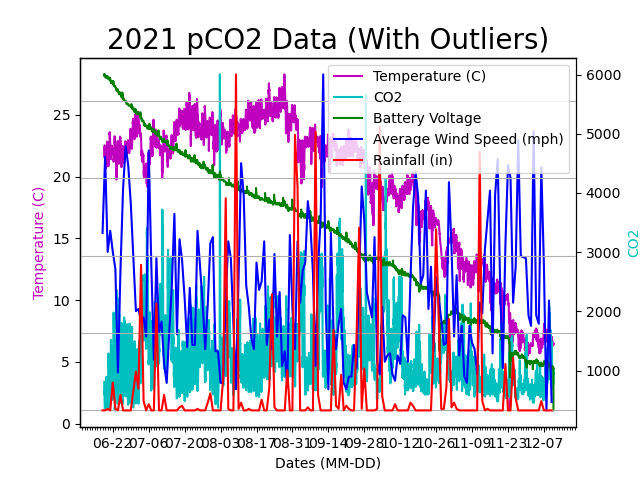
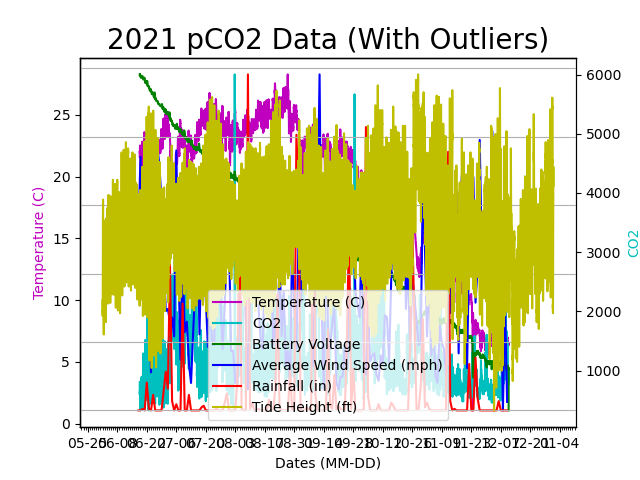
graphs tidal data (needs editing)

diff --git a/pCO2_data/Grapher.py b/pCO2_data/Grapher.py
@@ -31,6 +31,15 @@ ryData = []
 # Used in taking out empty data values from weather data
 numofLinesW = 0
 
+# Tidal Data
+# Used to hold tidal data from csv file
+tidDate = []
+tidTime = []
+tidHeightData = []
+
+# Used in taking out empty values from tidal data
+numofLinesT = 0
+
 # Outliers
 # Holds information on outliers
 outlierData = []
@@ -43,8 +52,8 @@ headersV = ["January", "February", "March", "April", "May", "June", "July", "Aug
 # Holds converted time values
 xDataTrueO =[]      # Outlier times
 xDataTrueNO = []    # No outlier times
-weaDateTrue =[]     # Weather times
-
+weaDateTrue = []    # Weather times
+tidDateTrue = []    # Tidal times
 # Takes out empty data values in pCO2 data set
 with open(os.path.join(__location__, 'completeData.csv'),'r') as csvfile:
     lines = csv.reader(csvfile, delimiter='\t')
@@ -72,7 +81,7 @@ with open(os.path.join(__location__, '2021_Barlow_Weather_Data_Formatted.csv'),'
     lines = csv.reader(csvfile, delimiter=',')
     for row in lines:
         
-        # Checks if time entry has corresponding Temperature, CO2, and Battery Voltage
+        # Checks if time entry has corresponding Wind Speed and Rainfall
         # If not, does not include data point in graph
         if not row[11] == "" and not row[15] == "" and numofLinesW > 0:
             weaDate.append(row[0])
@@ -81,6 +90,21 @@ with open(os.path.join(__location__, '2021_Barlow_Weather_Data_Formatted.csv'),'
             numofLinesW += 1
         elif numofLinesW == 0:
             numofLinesW += 1
+
+# Takes out empty values in tidal data set
+with open(os.path.join(__location__, 'Tidal_Data_Complete.csv'),'r') as csvfile:
+    lines = csv.reader(csvfile, delimiter=',')
+    for row in lines:
+        
+        # Checks if time entry has corresponding Time and Verified Measurement
+        # If not, does not include data point in graph
+        if not row[1] == "-" and not row[4] == "-" and numofLinesT > 0:
+            tidDate.append(row[0])
+            tidTime.append(row[1])
+            tidHeightData.append(float(row[4]))
+            numofLinesT += 1
+        elif numofLinesT == 0:
+            numofLinesT += 1
 
 
 # Extracts outliers from dataframe
@@ -169,12 +193,18 @@ for dateValue in weaDate:
     trueDate = datetime.datetime.strptime(dateValue, '%m/%d/%Y').date()
     weaDateTrue.append(trueDate)
   
+# Tide data
+tidDateTimeStrList = map(" ".join, zip(tidDate, tidTime))
+for string in tidDateTimeStrList:
+    tidDateTrue.append(datetime.datetime.strptime(string, '%Y/%m/%d %H:%M'))
+
 
 # Graph plotter function
 # Provide date, temperature, CO2, and battery data
 # Provide weather dates, wind, and rain data
+# Provide tide times and tide height
 # Provide name of graph in string format 
-def grapher(time, tempC, CO2, batteryV, weatherD, wind, rain, name):
+def grapher(time, tempC, CO2, batteryV, weatherD, wind, rain, tideD, tideH, name):
     x = time
     ty = tempC
     cy = CO2
@@ -182,8 +212,11 @@ def grapher(time, tempC, CO2, batteryV, weatherD, wind, rain, name):
     wx = weatherD
     wy = wind
     ry = rain
+    tidalx = tideD
+    tidaly = tideH
 
     fig, ax1 = plt.subplots()
+    #fig.subplots_adjust(right = 0.75)
     p1 = ax1.plot(x, ty, color = 'm', linestyle = 'solid', label = 'Temperature (C)')
 
     # Sets x-axis as Dates
@@ -224,21 +257,28 @@ def grapher(time, tempC, CO2, batteryV, weatherD, wind, rain, name):
     ax5.spines["right"].set_position(("outward", 180))
     ax5.yaxis.label.set_color(p5[0].get_color())
 
+    # Tide Height plot
+    ax6 = ax1.twinx()
+    p6 = ax6.plot(tidalx, tidaly, color = 'y', linestyle = 'solid', label = "Tide Height (ft)")
+    ax6.set_ylabel("Tide Height (ft)")
+    ax6.spines["right"].set_position(("outward", 240))
+    ax6.yaxis.label.set_color(p6[0].get_color())
+
     # Sets title, adds a grid, and shows legend
     plt.title(name, fontsize = 20)
     plt.grid(True)
-    plt.legend(handles=p1+p2+p3+p4+p5)
+    plt.legend(handles=p1+p2+p3+p4+p5+p6)
 
     return
 
 # Plots graph without outliers
-grapher(xDataTrueNO, extractedData.get("Temp"), extractedData.get("CO2"), extractedData.get("Battery"), weaDateTrue, wyData, ryData, "2021 pCO2 Data (No Outliers)")
+grapher(xDataTrueNO, extractedData.get("Temp"), extractedData.get("CO2"), extractedData.get("Battery"), weaDateTrue, wyData, ryData, tidDateTrue, tidHeightData, "2021 pCO2 Data (No Outliers)")
 
 # Saves without outliers graph to specified name in pCO2_data folder
 plt.savefig('pCO2_2021_Graph_No_Outliers.png')
 
 # Plots graph with outliers
-grapher(xDataTrueO, tyData, cyData, byData, weaDateTrue, wyData, ryData, "2021 pCO2 Data (With Outliers)")
+grapher(xDataTrueO, tyData, cyData, byData, weaDateTrue, wyData, ryData, tidDateTrue, tidHeightData, "2021 pCO2 Data (With Outliers)")
 
 # Saves with outliers graph to specified name in pCO2_data folder
 plt.savefig('pCO2_2021_Graph_With_Outliers.png')
